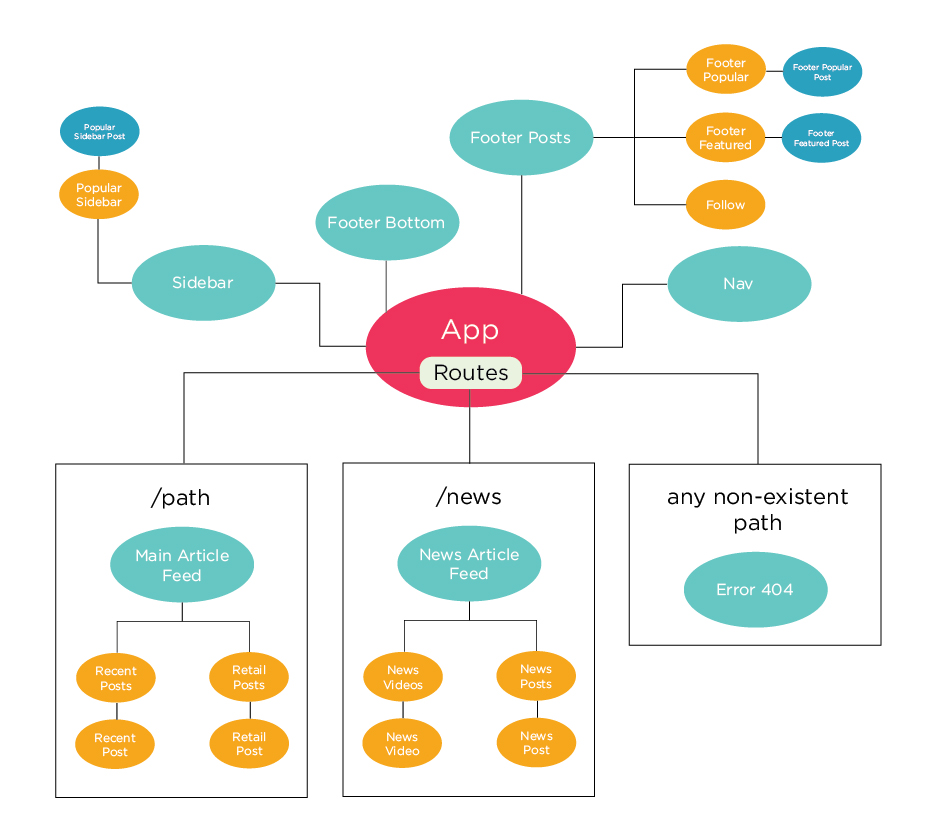
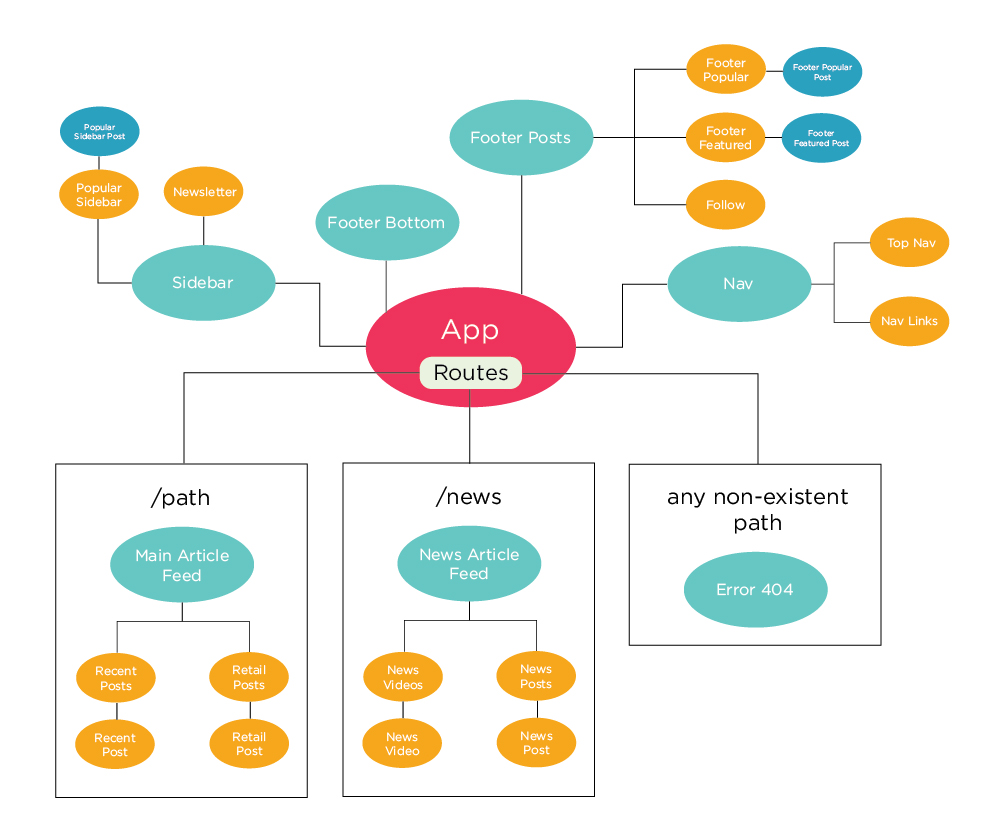
add README with component flowchart

diff --git a/README.md b/README.md
@@ -1,0 +1,35 @@
+# Angular Makeover
+
+#### React project for Epicodus independent code review, 11.9.18
+
+#### By Nikki Wong
+
+## Description
+
+This application is a React remake of my Angular site rebuild of the Oh My Disney website.
+
+## Angular Clone Site
+
+Live Site: https://site-rebuild-d795b.firebaseapp.com/
+
+## Planning
+<img src="./src/assets/images/components-01.jpg">
+
+## Setup on OSX
+
+* Clone this repository
+* Run `npm install`
+
+## Development server
+
+Run `npm run start` for a dev server. Navigate to `http://localhost:8080/`. The app will automatically reload if you change any of the source files.
+
+## Technologies Used
+
+* React
+* Babel
+* Webpack
+
+## License
+
+Copyright (c) 2018 **Nikki Wong**
